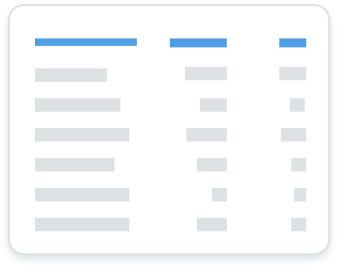
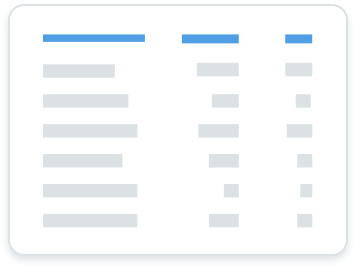
modify illustrations

diff --git a/frontend/src/metabase/new_query/containers/NewQuery.jsx b/frontend/src/metabase/new_query/containers/NewQuery.jsx
@@ -178,9 +178,10 @@ export class NewQuery extends Component {
                                 <li className="Grid-cell">
                                     {/*TODO: Move illustrations to the new location in file hierarchy. At the same time put an end to the equal-size-@2x ridicule. */}
                                     <NewQueryOption
-                                        image="/app/img/custom_question"
+                                        image="/app/img/query_builder_illustration"
                                         title={ showCustomInsteadOfNewQuestionText ? "Custom" : "New question"}
                                         description="Use the simple query builder to see trends, lists of things, or to create your own metrics."
+                                        width={180}
                                         onClick={this.startGuiQuery}
                                     />
                                 </li>
